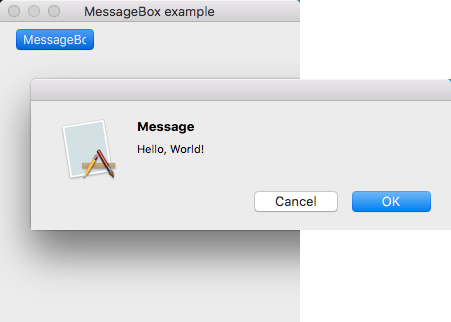
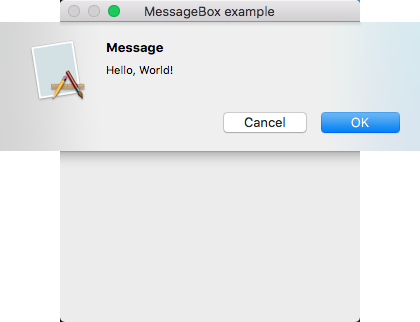
MessageBox example review

diff --git a/src/MessageBox/MessageBox.m b/src/MessageBox/MessageBox.m
@@ -1,29 +1,78 @@
 #include <Cocoa/Cocoa.h>
 
-@interface Button : NSButton
-- (IBAction) OnClick:(id)sender;
+@interface Form : NSWindow {
+  NSButton* buttonShowMessage;
+}
+- (IBAction) OnButtonClick:(id)sender;
+- (BOOL)windowShouldClose:(id)sender;
 @end
 
-@implementation Button
-- (IBAction) OnClick:(id)sender {
+@implementation Form
+- (instancetype)init {
+  NSMenu* applicationMenu = [[[NSMenu alloc] init] autorelease];
+  [applicationMenu addItem:[[[NSMenuItem alloc] initWithTitle:[NSString stringWithFormat:NSLocalizedString([NSString stringWithUTF8String:"About %@"] , nil), [[NSProcessInfo processInfo] processName]] action:@selector(orderFrontStandardAboutPanel:) keyEquivalent:@""] autorelease]];
+  [applicationMenu addItem:[NSMenuItem separatorItem]];
+  NSMenuItem* servicesMenuItem = [applicationMenu addItemWithTitle:NSLocalizedString([NSString stringWithUTF8String:"Services"], nil) action:nil keyEquivalent:@""];
+  NSMenu* servicesMenu = [[[NSMenu alloc] initWithTitle:@""] autorelease];
+  [applicationMenu setSubmenu:servicesMenu forItem:servicesMenuItem];
+  [applicationMenu addItem:[NSMenuItem separatorItem]];
+  [applicationMenu addItemWithTitle:[NSString stringWithFormat:NSLocalizedString([NSString stringWithUTF8String:"Hide %@"],nil), [[NSProcessInfo processInfo] processName]] action:@selector(hide:) keyEquivalent:@"h"];
+  NSMenuItem* hideOtherMenuItem = [applicationMenu addItemWithTitle:NSLocalizedString([NSString stringWithUTF8String:"Hide Others"] , nil) action:@selector(hideOtherApplications:) keyEquivalent:@"h"];
+  [hideOtherMenuItem setKeyEquivalentModifierMask:(NSEventModifierFlagOption|NSEventModifierFlagCommand)];
+  [applicationMenu addItemWithTitle:NSLocalizedString([NSString stringWithUTF8String:"Show All"] , nil) action:@selector(unhideAllApplications:) keyEquivalent:@""];
+  [applicationMenu addItem:[NSMenuItem separatorItem]];
+  [applicationMenu addItem:[[[NSMenuItem alloc] initWithTitle:[NSString stringWithFormat:NSLocalizedString([NSString stringWithUTF8String:"Quit %@"] , nil), [[NSProcessInfo processInfo] processName]] action:@selector(terminate:) keyEquivalent:@"q"] autorelease]];
+  NSMenuItem* applicationMenuItem = [[[NSMenuItem alloc] init] autorelease];
+  [applicationMenuItem setSubmenu:applicationMenu];
+
+  NSMenu* viewMenu = [[[NSMenu alloc] initWithTitle:NSLocalizedString(@"View" , nil)] autorelease];
+  NSMenuItem* viewMenuItem = [[[NSMenuItem alloc] init] autorelease];
+  [viewMenuItem setSubmenu:viewMenu];
+  
+  NSMenu* windowMenu = [[[NSMenu alloc] initWithTitle:NSLocalizedString(@"Window" , nil)] autorelease];
+  NSMenuItem* windowMenuItem = [[[NSMenuItem alloc] init] autorelease];
+  [windowMenuItem setSubmenu:windowMenu];
+  
+  NSMenu* helpMenu = [[[NSMenu alloc] initWithTitle:NSLocalizedString(@"Help" , nil)] autorelease];
+  NSMenuItem* helpMenuItem = [[[NSMenuItem alloc] init] autorelease];
+  [helpMenuItem setSubmenu:helpMenu];
+
+  NSMenu* mainMenu = [[[NSMenu alloc] init] autorelease];
+  [mainMenu addItem:applicationMenuItem];
+  [mainMenu addItem:viewMenuItem];
+  [mainMenu addItem:windowMenuItem];
+  [mainMenu addItem:helpMenuItem];
+  
+  [NSApp setMainMenu:mainMenu];
+  [NSApp setServicesMenu:servicesMenu];
+  [NSApp setWindowsMenu:windowMenu];
+  [NSApp setHelpMenu:helpMenu];
+
+  buttonShowMessage = [[[NSButton alloc] initWithFrame:NSMakeRect(10, 265, 100, 32)] autorelease];
+  [buttonShowMessage setTitle:@"MessageBox"];
+  [buttonShowMessage setBezelStyle:NSBezelStyleRounded];
+  [buttonShowMessage setTarget:self];
+  [buttonShowMessage setAction:@selector(OnButtonClick:)];
+  [buttonShowMessage setAutoresizingMask:NSViewMaxXMargin | NSViewMinYMargin];
+
+  [super initWithContentRect:NSMakeRect(100, 100, 300, 300) styleMask:NSWindowStyleMaskTitled | NSWindowStyleMaskClosable | NSWindowStyleMaskResizable backing:NSBackingStoreBuffered defer:NO];
+  [self setTitle:@"MessageBox example"];
+  [[self contentView] addSubview:buttonShowMessage];
+  [self setIsVisible:YES];
+  return self;
+}
+- (IBAction) OnButtonClick:(id)sender {
   NSAlert* alert = [[NSAlert alloc] init];
   [alert setMessageText:@"Message"];
   [alert setInformativeText:@"Hello, World!"];
   [alert setAlertStyle:NSAlertStyleWarning];
   [alert addButtonWithTitle:@"OK"];
   [alert addButtonWithTitle:@"Cancel"];
-  [alert runModal];
+  [alert beginSheetModalForWindow:self completionHandler:^(NSModalResponse returnCode) {}];
   NSModalSession session = [NSApp beginModalSessionForWindow:[NSApp mainWindow]];
   [NSApp runModalSession:session];
   [NSApp endModalSession:session];
 }
-@end
-
-@interface Form : NSWindow
-- (BOOL)windowShouldClose:(id)sender;
-@end
-
-@implementation Form
 - (BOOL)windowShouldClose:(id)sender {
   [NSApp terminate:sender];
   return NO;
@@ -31,88 +80,8 @@
 @end
 
 int main(int argc, char* argv[]) {
-  // Create Button
-  Button* buttonShowMessage = [[[Button alloc] initWithFrame:NSMakeRect(10, 265, 90, 32)] autorelease];
-  [buttonShowMessage setTitle:@"MessageBox"];
-  [buttonShowMessage setBezelStyle:NSBezelStyleRounded];
-  [buttonShowMessage setTarget:buttonShowMessage];
-  [buttonShowMessage setAction:@selector(OnClick:)];
-  [buttonShowMessage setAutoresizingMask:NSViewMaxXMargin | NSViewMinYMargin];
 
-  // Create Form
-  Form* form1 = [[[Form alloc] initWithContentRect:NSMakeRect(100, 100, 300, 300) styleMask:NSWindowStyleMaskTitled | NSWindowStyleMaskClosable | NSWindowStyleMaskResizable backing:NSBackingStoreBuffered defer:NO] autorelease];
-  [form1 setTitle:@"MessageBox example"];
-  [[form1 contentView] addSubview:buttonShowMessage];
-  [form1 setIsVisible:YES];
-  
-  // Gets process name
-  NSString* processName = [[NSProcessInfo processInfo] processName];
-  
-  // Creates Application submenu with process name
-  NSMenu* applicationMenu = [[[NSMenu alloc] init] autorelease];
-  [applicationMenu addItem:[[[NSMenuItem alloc] initWithTitle:[NSString stringWithFormat:NSLocalizedString([NSString stringWithUTF8String:"About %@"] , nil), processName] action:@selector(orderFrontStandardAboutPanel:) keyEquivalent:@""] autorelease]];
-  [applicationMenu addItem:[NSMenuItem separatorItem]];
-  NSMenuItem* servicesMenuItem = [applicationMenu addItemWithTitle:NSLocalizedString([NSString stringWithUTF8String:"Services"], nil) action:nil keyEquivalent:@""];
-  NSMenu* servicesMenu = [[[NSMenu alloc] initWithTitle:@""] autorelease];
-  [applicationMenu setSubmenu:servicesMenu forItem:servicesMenuItem];
-  [applicationMenu addItem:[NSMenuItem separatorItem]];
-  [applicationMenu addItemWithTitle:[NSString stringWithFormat:NSLocalizedString([NSString stringWithUTF8String:"Hide %@"],nil), processName] action:@selector(hide:) keyEquivalent:@"h"];
-  NSMenuItem* hideOtherMenuItem = [applicationMenu addItemWithTitle:NSLocalizedString([NSString stringWithUTF8String:"Hide Others"] , nil) action:@selector(hideOtherApplications:) keyEquivalent:@"h"];
-  [hideOtherMenuItem setKeyEquivalentModifierMask:(NSEventModifierFlagOption|NSEventModifierFlagCommand)];
-  [applicationMenu addItemWithTitle:NSLocalizedString([NSString stringWithUTF8String:"Show All"] , nil) action:@selector(unhideAllApplications:) keyEquivalent:@""];
-  [applicationMenu addItem:[NSMenuItem separatorItem]];
-  [applicationMenu addItem:[[[NSMenuItem alloc] initWithTitle:[NSString stringWithFormat:NSLocalizedString([NSString stringWithUTF8String:"Quit %@"] , nil), processName] action:@selector(terminate:) keyEquivalent:@"q"] autorelease]];
-  NSMenuItem* applicationMenuItem = [[[NSMenuItem alloc] init] autorelease];
-  [applicationMenuItem setSubmenu:applicationMenu];
-
-  // Creates View submenu
-  NSMenu* viewMenu = [[[NSMenu alloc] initWithTitle:NSLocalizedString(@"View" , nil)] autorelease];
-  NSMenuItem* viewMenuItem = [[[NSMenuItem alloc] init] autorelease];
-  [viewMenuItem setSubmenu:viewMenu];
-
-  // Creates Window submenu
-  NSMenu* windowMenu = [[[NSMenu alloc] initWithTitle:NSLocalizedString(@"Window" , nil)] autorelease];
-  NSMenuItem* windowMenuItem = [[[NSMenuItem alloc] init] autorelease];
-  [windowMenuItem setSubmenu:windowMenu];
-
-  // Creates Help submenu
-  NSMenu* helpMenu = [[[NSMenu alloc] initWithTitle:NSLocalizedString(@"Help" , nil)] autorelease];
-  NSMenuItem* helpMenuItem = [[[NSMenuItem alloc] init] autorelease];
-  [helpMenuItem setSubmenu:helpMenu];
-
-  // Creates main menubar
-  NSMenu* mainMenu = [[[NSMenu alloc] init] autorelease];
-  [mainMenu addItem:applicationMenuItem];
-  [mainMenu addItem:viewMenuItem];
-  [mainMenu addItem:windowMenuItem];
-  [mainMenu addItem:helpMenuItem];
-
-  // Creates Application and asociate menubar and specific menus.
   [NSApplication sharedApplication];
-  [NSApp setMainMenu:mainMenu];
-  [NSApp setServicesMenu:servicesMenu];
-  [NSApp setWindowsMenu:windowMenu];
-  [NSApp setHelpMenu:helpMenu];
-
-  // Set window as mainWindow
-  [form1 makeMainWindow];
-  
-  // Creates your own message loop
-  NSAutoreleasePool* pool = [[NSAutoreleasePool alloc] init];
-  [NSApp finishLaunching];
-  bool hasIdle = true;
-  while (true) {
-    [pool release];
-    pool = [[NSAutoreleasePool alloc] init];
-    
-    NSEvent* event = [NSApp nextEventMatchingMask:NSEventMaskAny untilDate: hasIdle ? [NSDate distantPast] : [NSDate distantFuture] inMode:NSDefaultRunLoopMode dequeue:YES];
-    if (event != nil) {
-      // run your own dispatcher...
-      [NSApp sendEvent:event];
-      [NSApp updateWindows];
-    } else if (hasIdle) {
-      // run idle method...
-    }
-  }
-  [pool release];
+  [[[[Form alloc] init] autorelease] makeMainWindow];
+  [NSApp run];
 }

diff --git a/src/Form/Form.m b/src/Form/Form.m
@@ -69,11 +69,10 @@
   [alert setAlertStyle:NSAlertStyleWarning];
   [alert addButtonWithTitle:@"Yes"];
   [alert addButtonWithTitle:@"No"];
-  NSModalResponse response = [alert runModal];
-  if (response == NSAlertFirstButtonReturn) {
-    [NSApp terminate:sender];
-    return YES;
-  }
+  [alert beginSheetModalForWindow:self completionHandler:^(NSModalResponse returnCode) {
+    if (returnCode == NSAlertFirstButtonReturn)
+      [NSApp terminate:sender];
+  }];
   return NO;
 }
 @end
